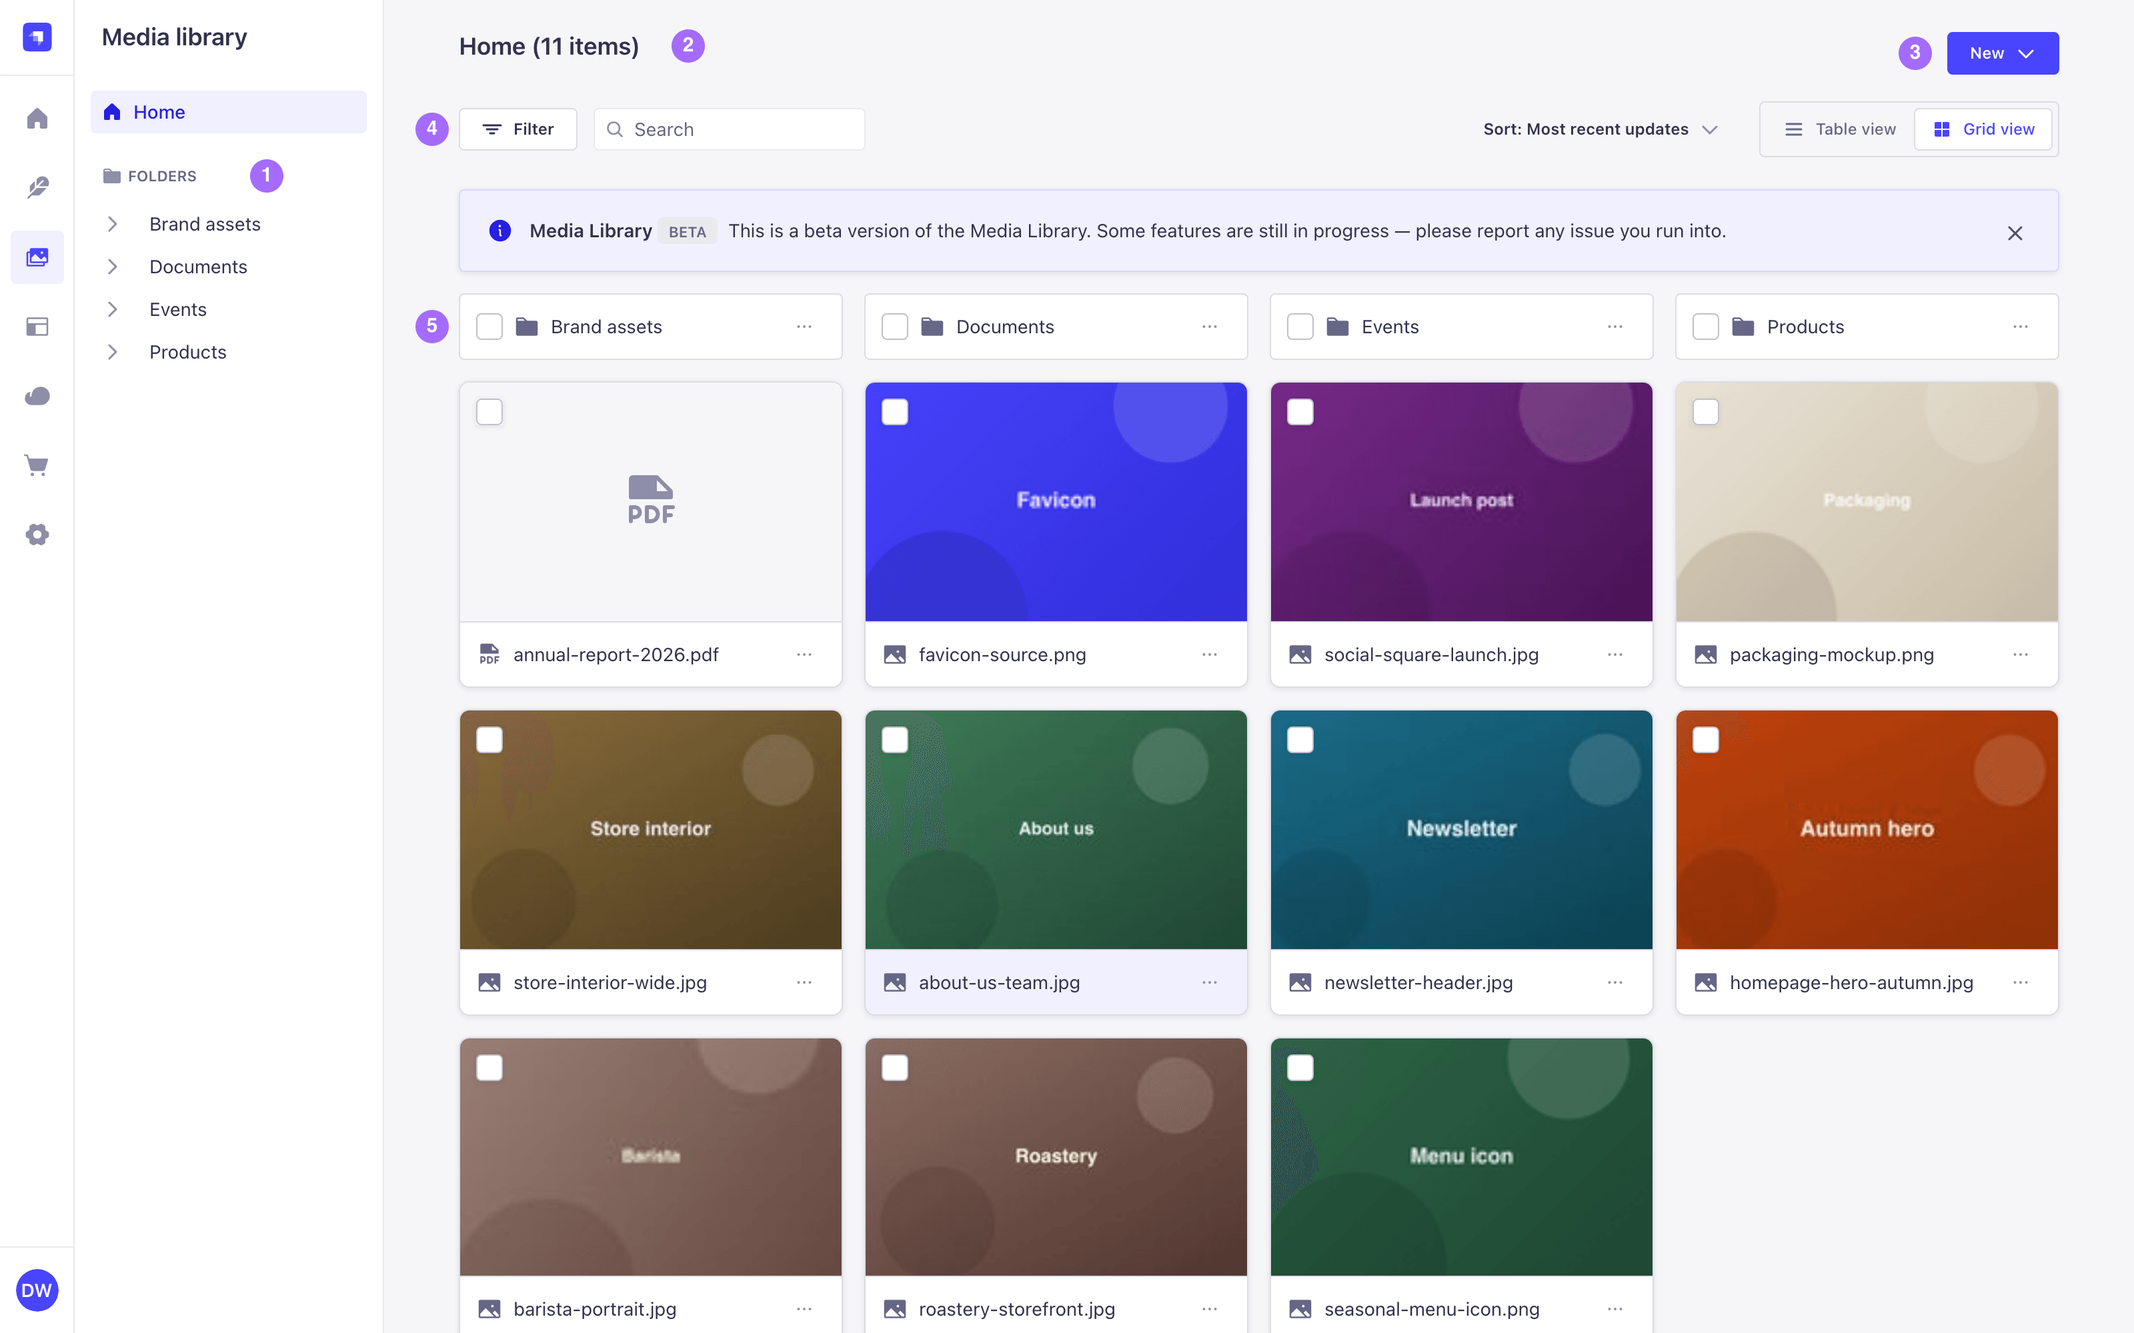
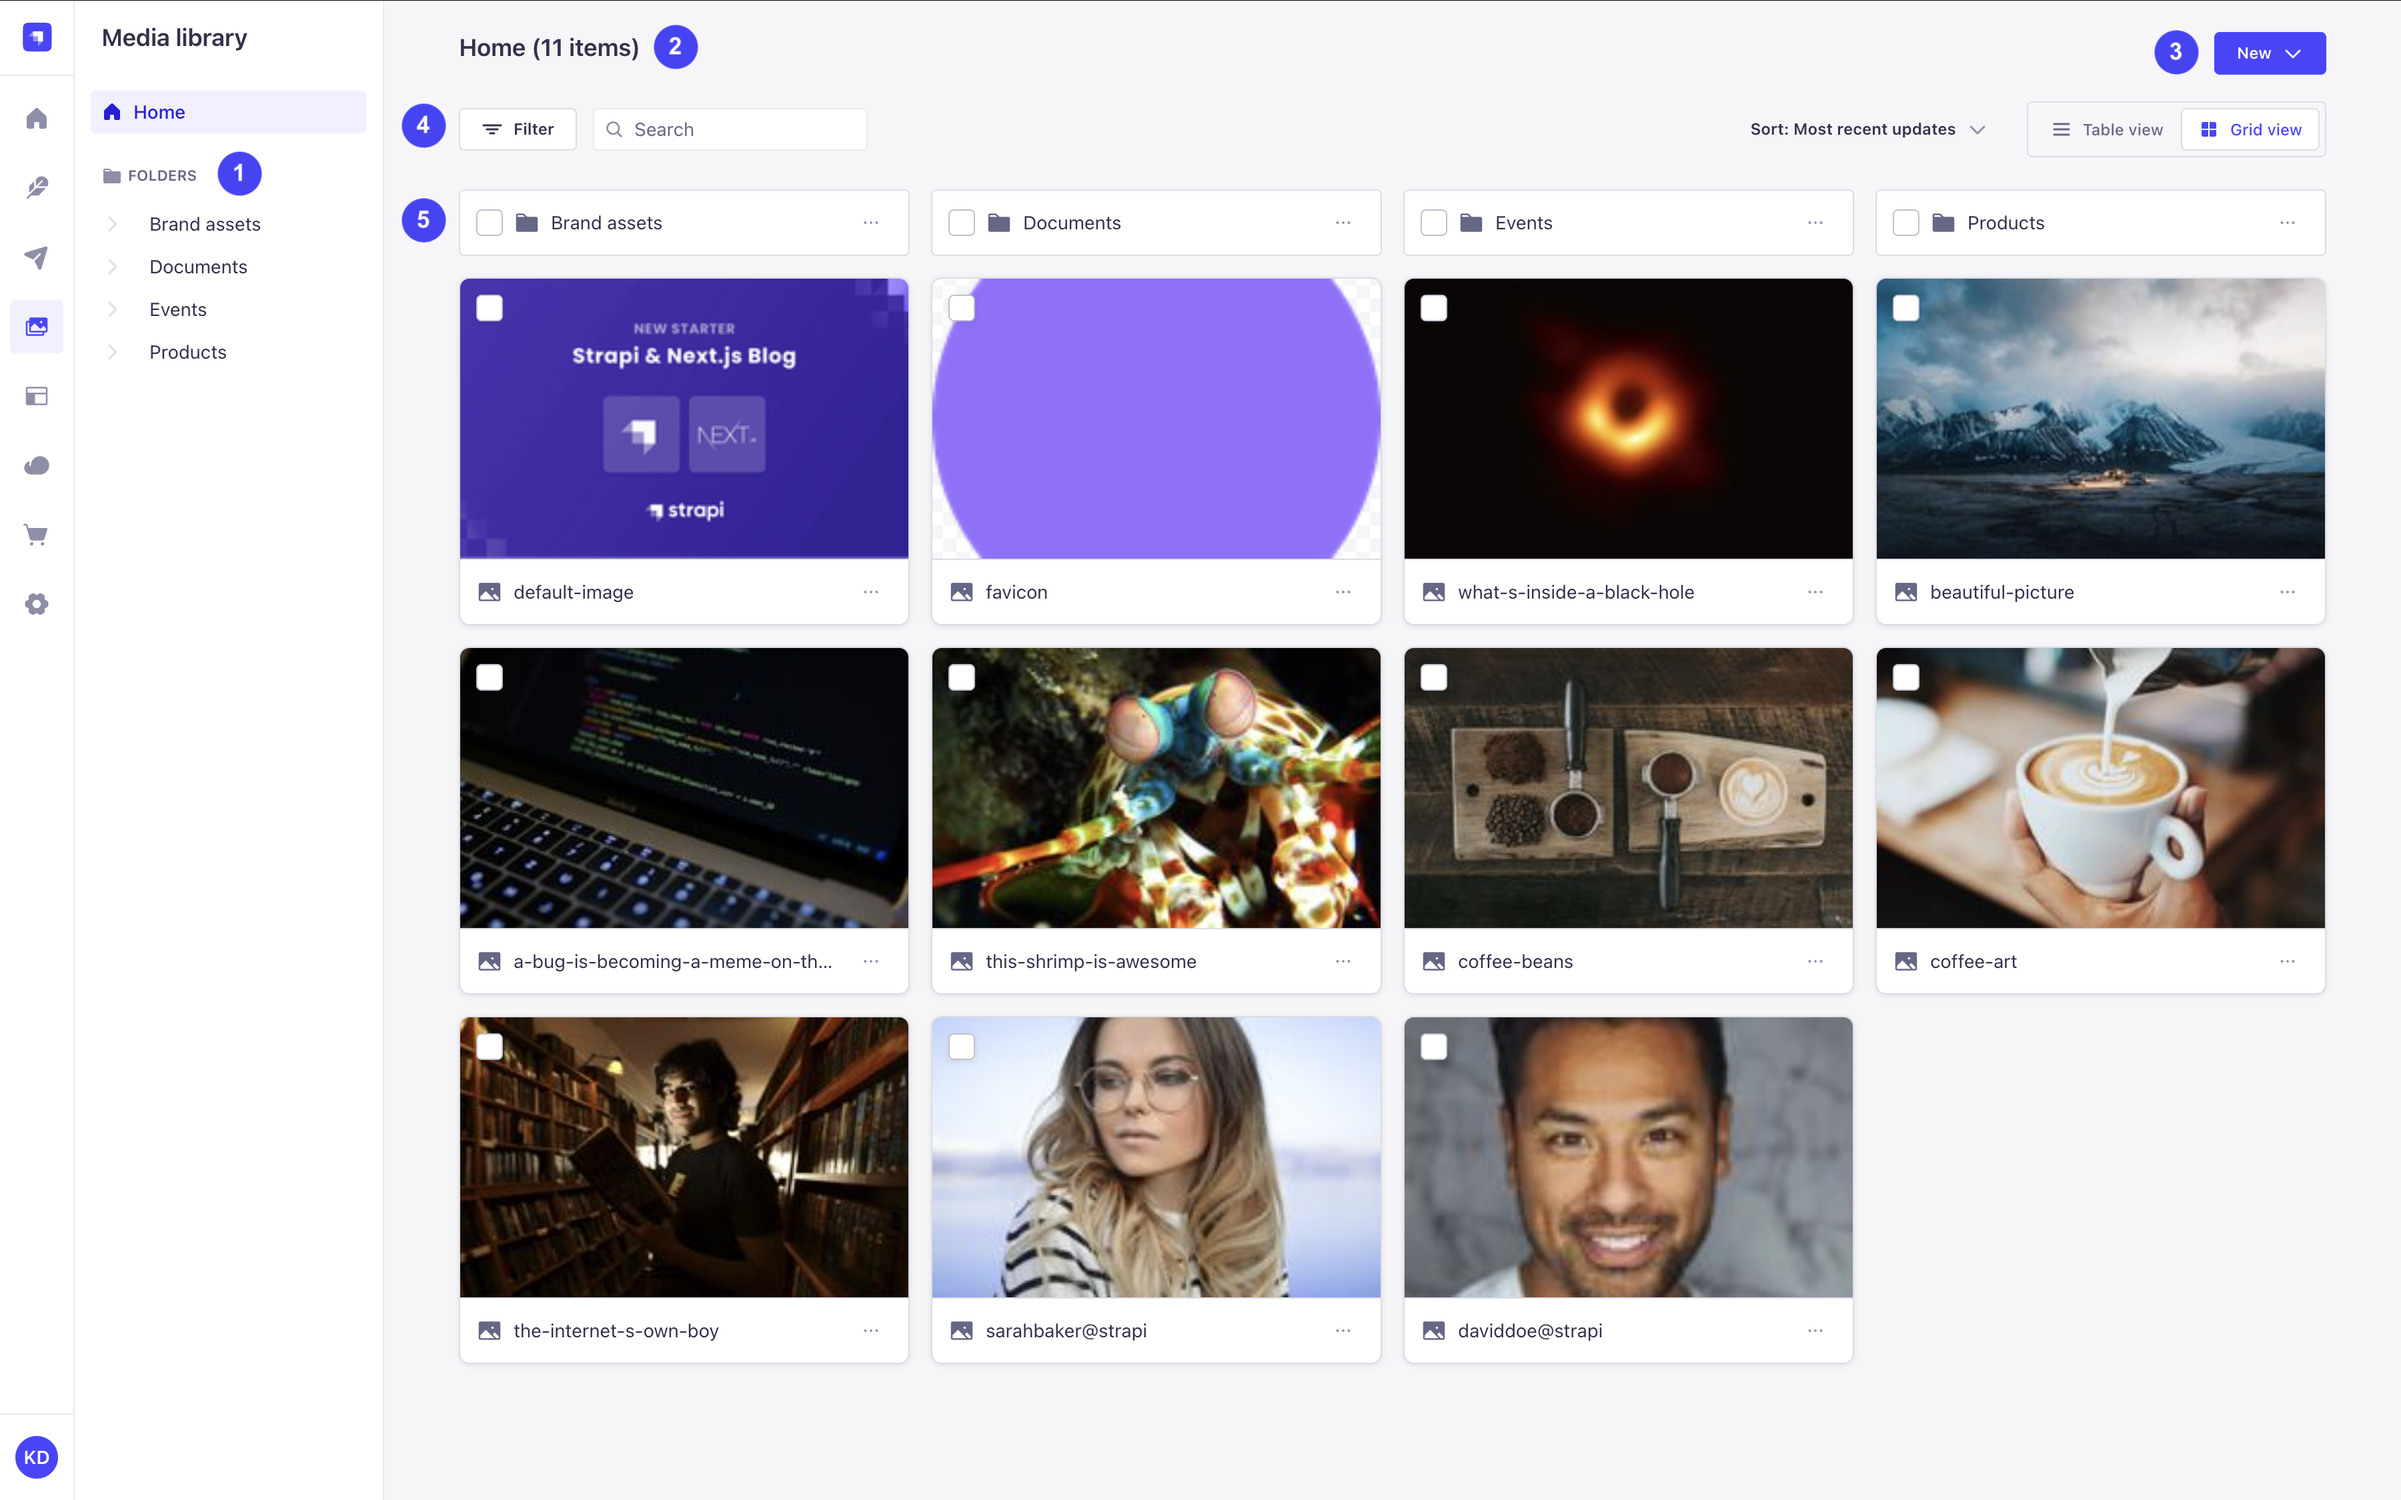
Update screenshots

diff --git a/docusaurus/docs/cms/features/strapi-mcp-server.md b/docusaurus/docs/cms/features/strapi-mcp-server.md
@@ -249,9 +249,9 @@ The publish, unpublish, and discard_draft tools are only generated when [Draft &
 
 #### Media Library tools {#media-library-tools}
 
-<VersionBadge version="5.53.1+" noTooltip />
+<VersionBadge version="5.54.0" />
 
-Strapi registers 10 tools for the [Media Library](/cms/features/media-library): 3 for reading, and 7 for writing that are available with Strapi <VersionBadge version="5.54.0+" noTooltip />. Unlike content management tools they are not generated from your schema, so the same set is always registered. Each tool is exposed only if the Admin token grants the permission listed below: a tool the token cannot use does not appear in `tools/list`, and calling it returns a permission error.
+Strapi registers 10 tools for the [Media Library](/cms/features/media-library): 3 for reading and 7 for writing. Unlike content management tools they are not generated from your schema, so the same set is always registered. Each tool is exposed only if the Admin token grants the permission listed below: a tool the token cannot use does not appear in `tools/list`, and calling it returns a permission error.
 
 | Tool | Permission required | Description |
 |------|--------------------|-------------|
